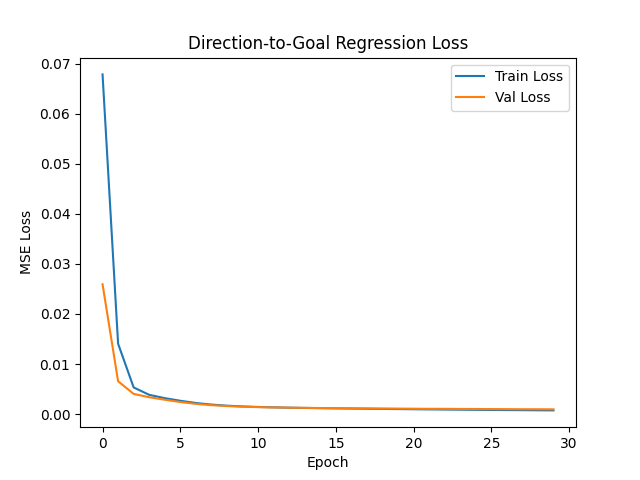
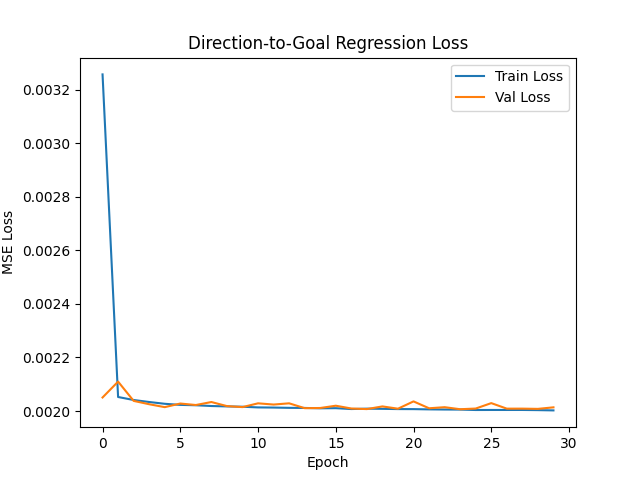
Compare the action vs goal direction target variable for nn only so far

diff --git a/Dylan/neural_net_model.py b/Dylan/neural_net_model.py
@@ -1,0 +1,59 @@
+
+# neural_net_model.py
+import pandas as pd
+import matplotlib.pyplot as plt
+import seaborn as sns
+import os
+from sklearn.model_selection import train_test_split
+from sklearn.preprocessing import StandardScaler
+from tensorflow.keras.models import Sequential
+from tensorflow.keras.layers import Dense
+from tensorflow.keras.utils import plot_model
+
+# Load dataset
+df = pd.read_csv("robot_training_data.csv")
+sensor_cols = [f"sensor_{i}" for i in range(8)]
+X = df[sensor_cols]
+y = df["action"]
+
+# Train-test split
+X_train, X_test, y_train, y_test = train_test_split(X, y, test_size=0.2, random_state=42)
+
+# Scale the data
+scaler = StandardScaler()
+X_train_scaled = scaler.fit_transform(X_train)
+X_test_scaled = scaler.transform(X_test)
+
+# Build neural network
+model = Sequential([
+    Dense(64, activation='relu', input_shape=(8,)),
+    Dense(32, activation='relu'),
+    Dense(8, activation='softmax')
+])
+model.compile(optimizer='adam', loss='sparse_categorical_crossentropy', metrics=['accuracy'])
+
+# Train
+history = model.fit(X_train_scaled, y_train, validation_data=(X_test_scaled, y_test), epochs=30, batch_size=32, verbose=0)
+
+# Output folder
+output_dir = "neural_net_outputs"
+os.makedirs(output_dir, exist_ok=True)
+
+# Accuracy plot
+plt.figure()
+plt.plot(history.history['accuracy'], label='Train Acc')
+plt.plot(history.history['val_accuracy'], label='Val Acc')
+plt.title('Neural Network Accuracy')
+plt.xlabel('Epoch')
+plt.ylabel('Accuracy')
+plt.legend()
+plt.savefig(f"{output_dir}/accuracy_plot.png")
+plt.close()
+
+# Save final accuracy
+final_acc = history.history['val_accuracy'][-1]
+with open(f"{output_dir}/accuracy.txt", "w") as f:
+    f.write(f"Final Validation Accuracy: {final_acc:.4f}\n")
+
+print(f"✅ Neural network complete. Final val accuracy: {final_acc:.4f}")
+print(f"Outputs saved to: {output_dir}/")

diff --git a/Dylan/neural_dir_predict.py b/Dylan/neural_dir_predict.py
@@ -13,9 +13,8 @@ import numpy as np
 # Load dataset
 df = pd.read_csv("robot_training_data.csv")
 
-# Filter columns
-exclude_cols = ["timestamp", "run_id", "action"]  # action no longer target
-X = df[[col for col in df.columns if col not in exclude_cols]]
+sensor_cols = [f"sensor_{i}" for i in range(8)]
+X = df[sensor_cols]
 y_angle = df["goal_direction"].astype(float)
 
 # Normalize angle (in radians) to [0, 1] for regression
